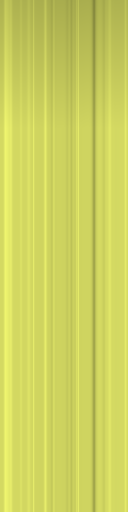
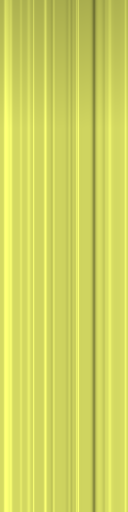
髪の筋の濃淡とつやの輪を強める

Changed region(s): [[0.7188, 0.0938, 0.75, 1.0]]

diff --git a/mmdgen/textures.py b/mmdgen/textures.py
@@ -35,11 +35,11 @@ class TextureSet:
         return self.save(Image.fromarray(img, "RGB"), name)
 
     # ---- 髪のつや（加算スフィア：上寄りに細い光の帯） ----
-    def hair_sphere(self, name="hair_sphere.png", strength=0.35):
+    def hair_sphere(self, name="hair_sphere.png", strength=0.55):
         n = 256
         y, x = np.mgrid[0:n, 0:n] / (n - 1) * 2 - 1
         r = np.sqrt(x * x + y * y)
-        band = np.exp(-((r - 0.62) / 0.07) ** 2) * np.clip(-y + 0.15, 0, 1) ** 0.7
+        band = np.exp(-((r - 0.62) / 0.10) ** 2) * np.clip(-y + 0.15, 0, 1) ** 0.7
         v = (band * strength * 255).astype(np.uint8)
         return self.save(Image.fromarray(np.stack([v, v, v], -1), "RGB"), name)
 
@@ -50,7 +50,7 @@ class TextureSet:
         u = np.linspace(0, 1, w)
         stripe = np.zeros(w)
         for _ in range(28):
-            c, s, a = rng.uniform(0, 1), rng.uniform(0.004, 0.02), rng.uniform(-0.10, 0.12)
+            c, s, a = rng.uniform(0, 1), rng.uniform(0.004, 0.02), rng.uniform(-0.16, 0.22)
             stripe += a * np.exp(-((u - c) / s) ** 2)
         stripe += 0.015 * np.cos(u * np.pi * 2)  # 束の端をごく少し暗く
         v = np.linspace(0, 1, h)

diff --git a/checklists/tabane_roze.md b/checklists/tabane_roze.md
@@ -45,13 +45,13 @@
 |---|---|---|
 | 首・なで肩 | ○ | 肩の上を下げてなで肩にした |
 | 腰回り・太もも | ○ | 腰を細くした |
-| 髪の色・つや | △ | 灰色寄りにした。筋がそろいすぎ |
+| 髪の色・つや | ○ | 筋の濃淡を強め、頭頂に光の輪を出した |
 | 姫カットの前髪 | ○ | 厚みを付け、毛先をまつ毛のすぐ上まで下げた |
 | 横の姫毛 | ○ | あごから下で外へ開き、胸の高さで終わる |
 | 内側の緑 | ○ | 立ち絵を見直すと両側に出ている |
 | 結い髪・陰陽玉 | ○ | 玉を大きくした |
 | 目 | ○ | 高さを詰め、上まつ毛を太くして白目をその下に収めた |
-| 顔の輪郭 | △ | あごは細くなった |
+| 顔の輪郭 | ○ | あごが細く、頬の幅が見える |
 | 口・鼻・頬 | ○ | 口角の上がった細い線 |
 | 立て襟・金ボタン | ○ | |
 | 胸元の開き | ○ | 横に広げた |
